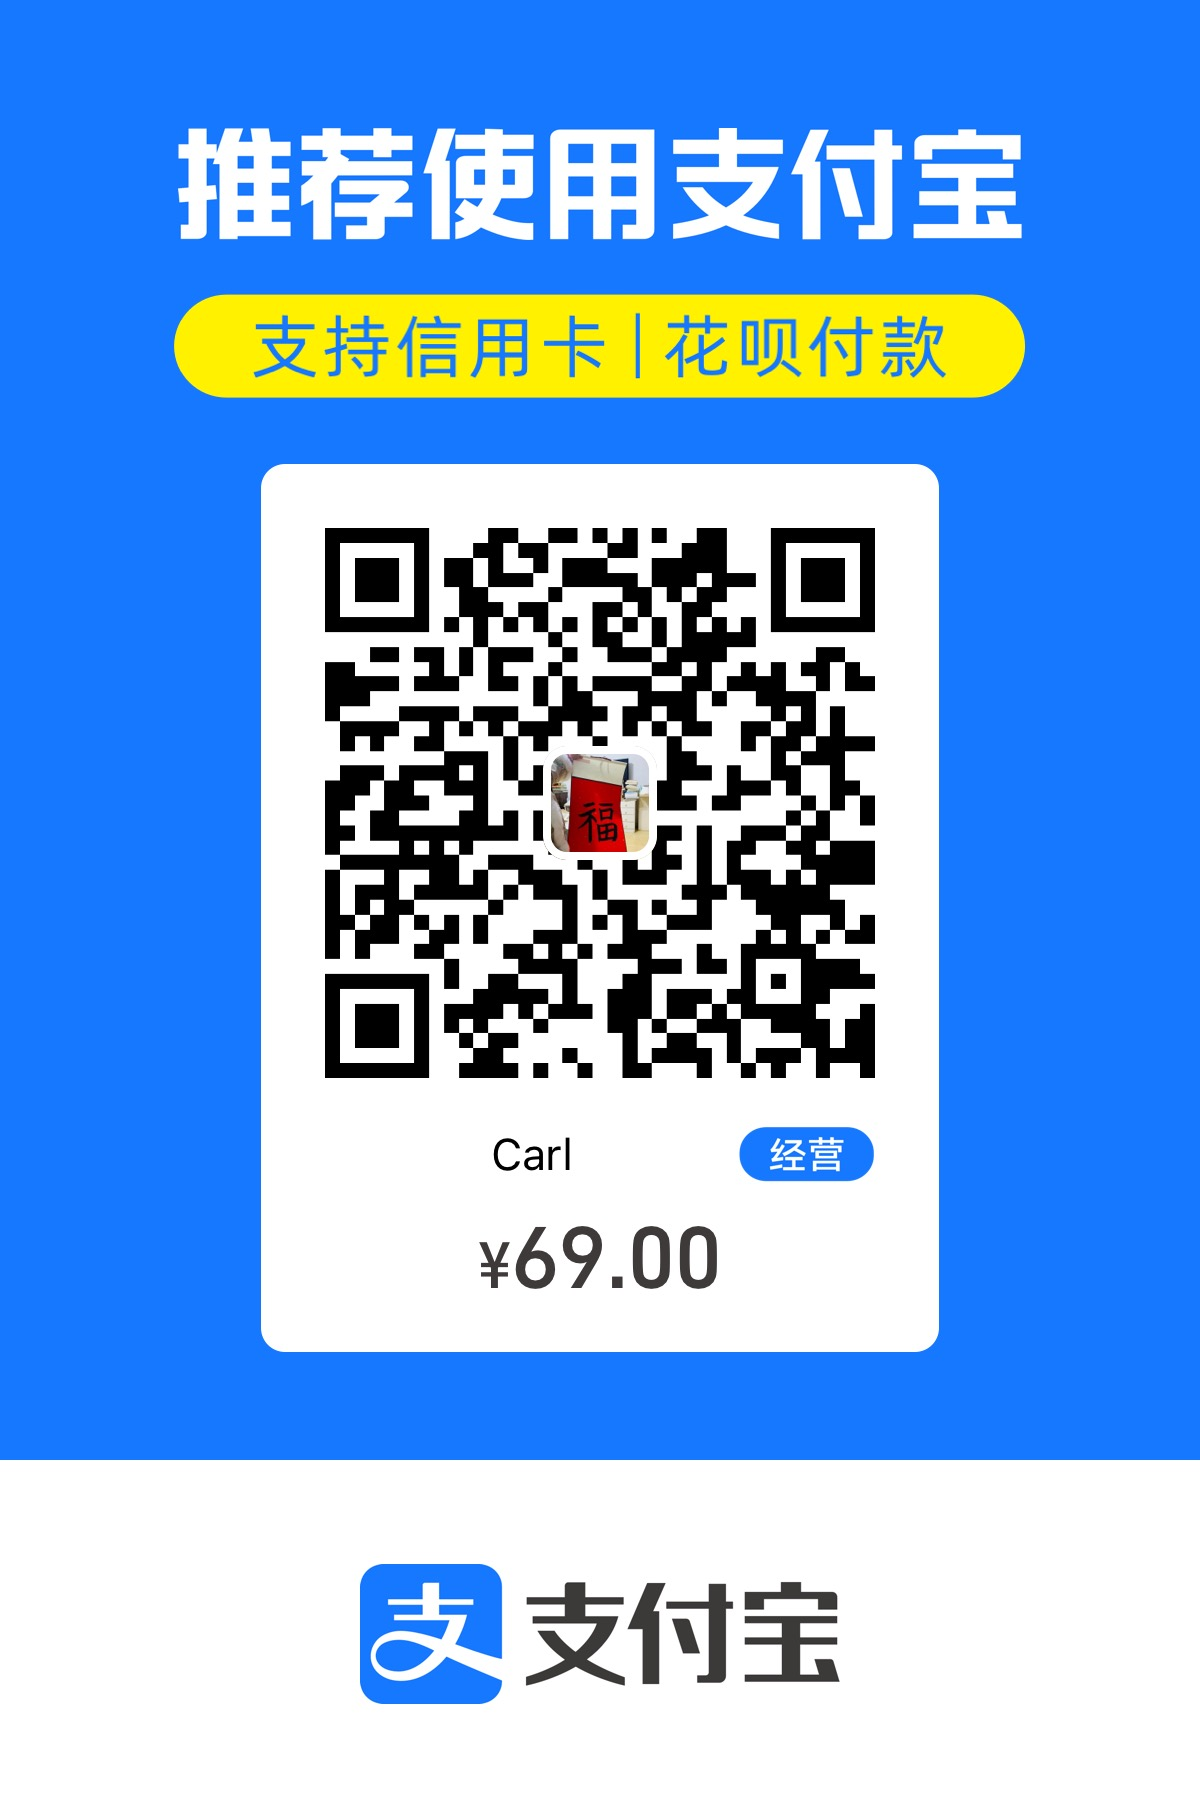
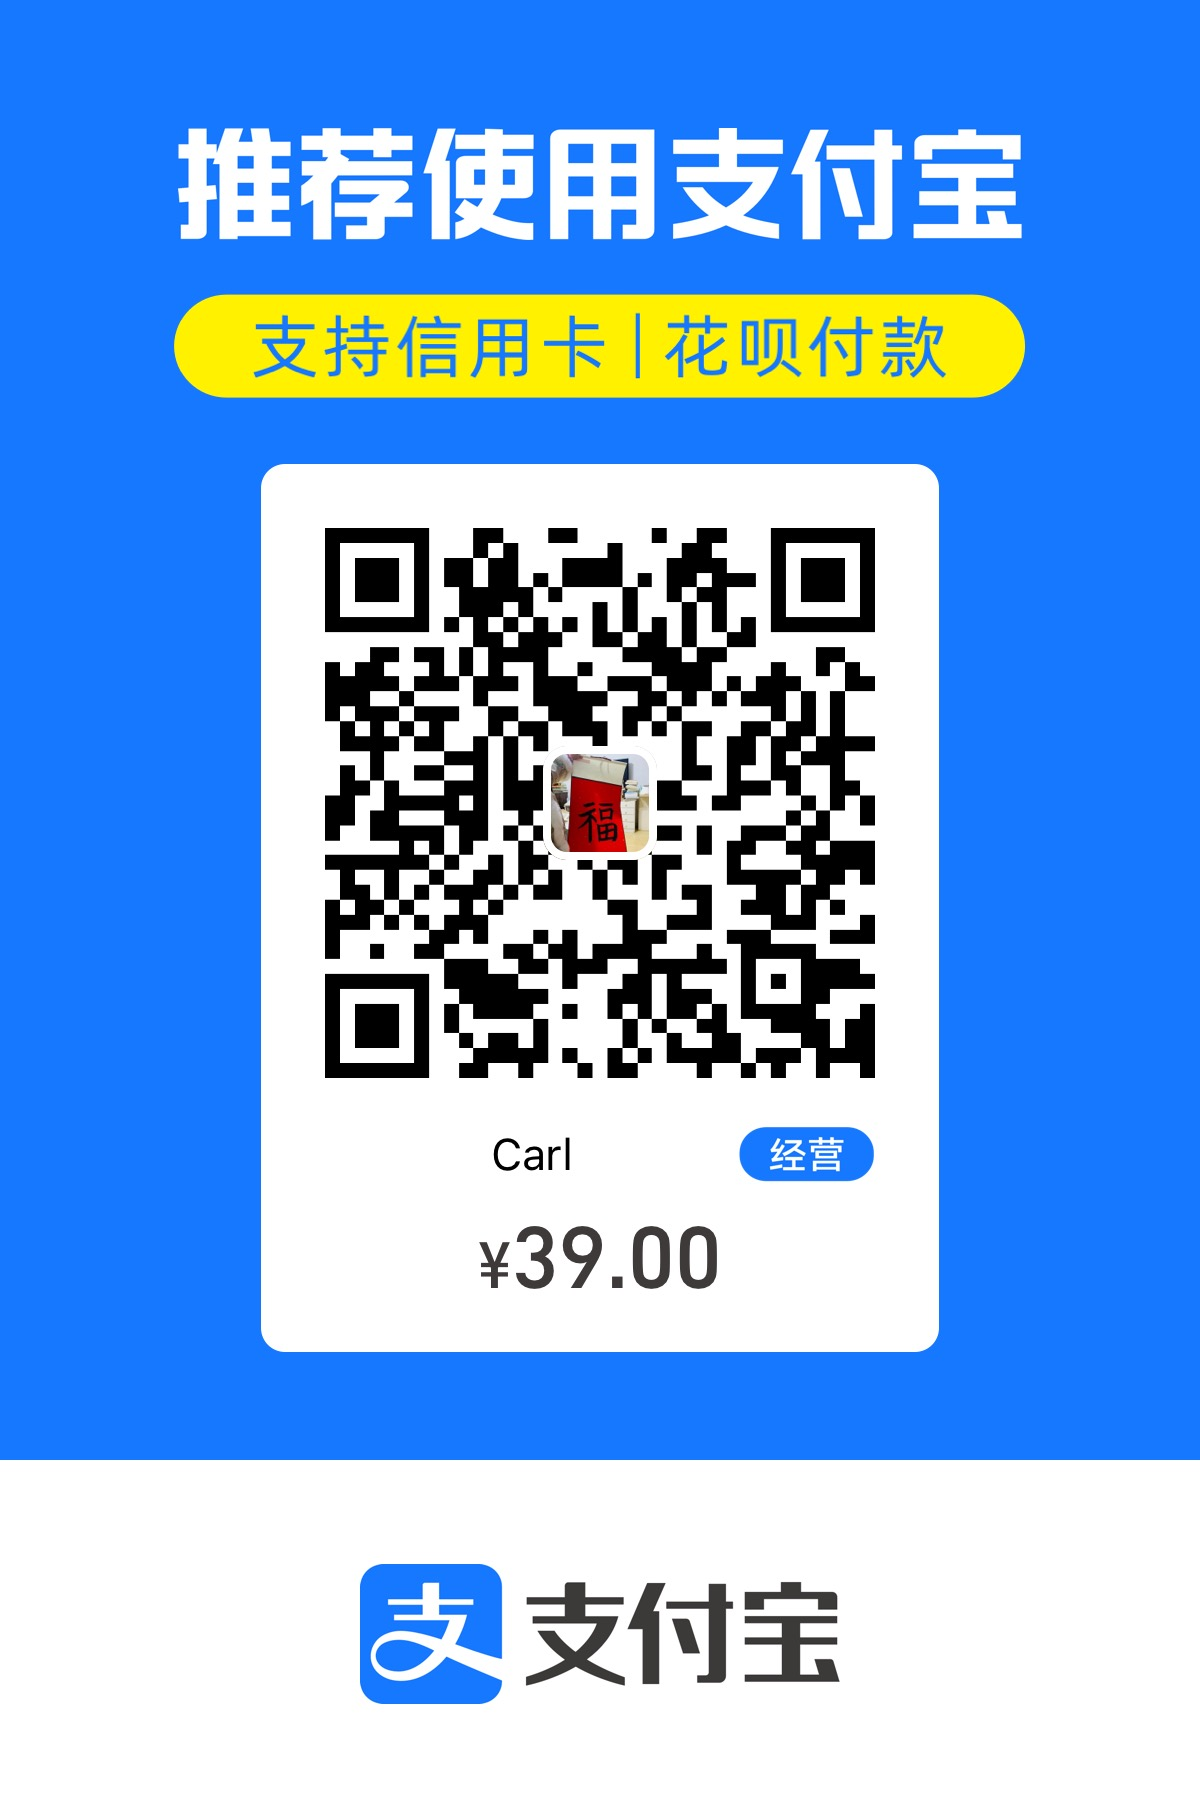
更新：会员信息

Changed region(s): [[0.2467, 0.28, 0.7092, 0.6222], [0.4317, 0.6844, 0.4625, 0.7156]]

diff --git a/src/lib/types/subscription.ts b/src/lib/types/subscription.ts
@@ -69,7 +69,7 @@ export const PRICING_PLANS: Record<SubscriptionTier, PricingPlan> = {
     id: 'pro',
     name: '专业版',
     description: '解锁更多高级功能',
-    price: 69,
+    price: 39,
     features: [
       '每日100次AI对话',
       '10个任务模板',
